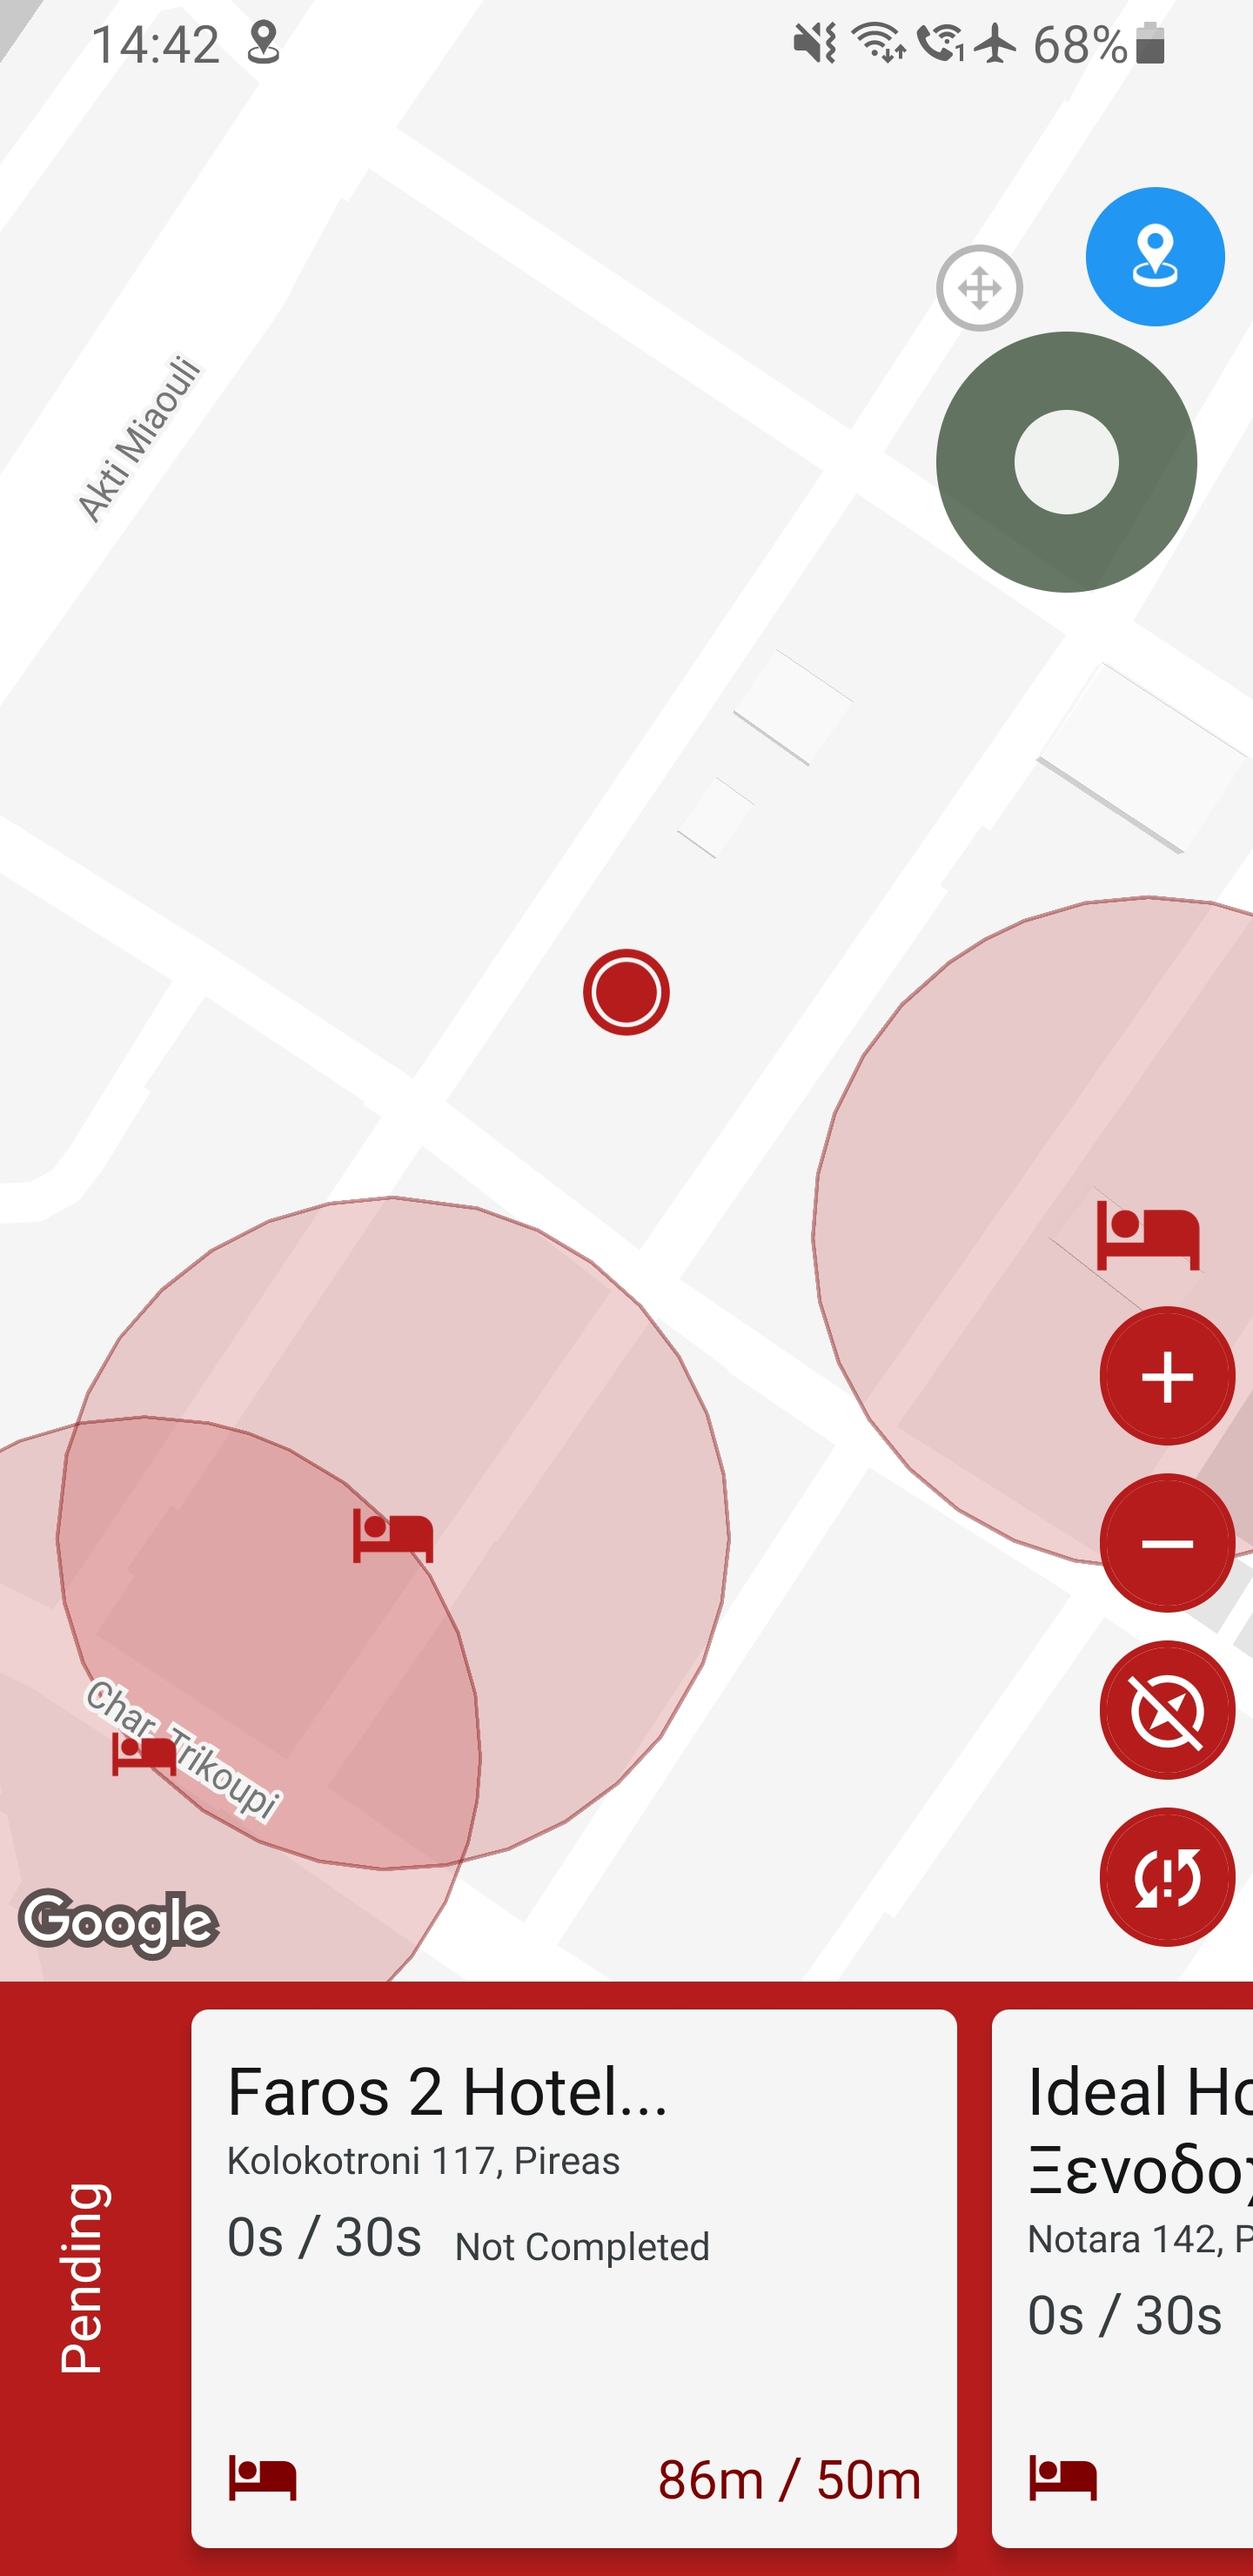
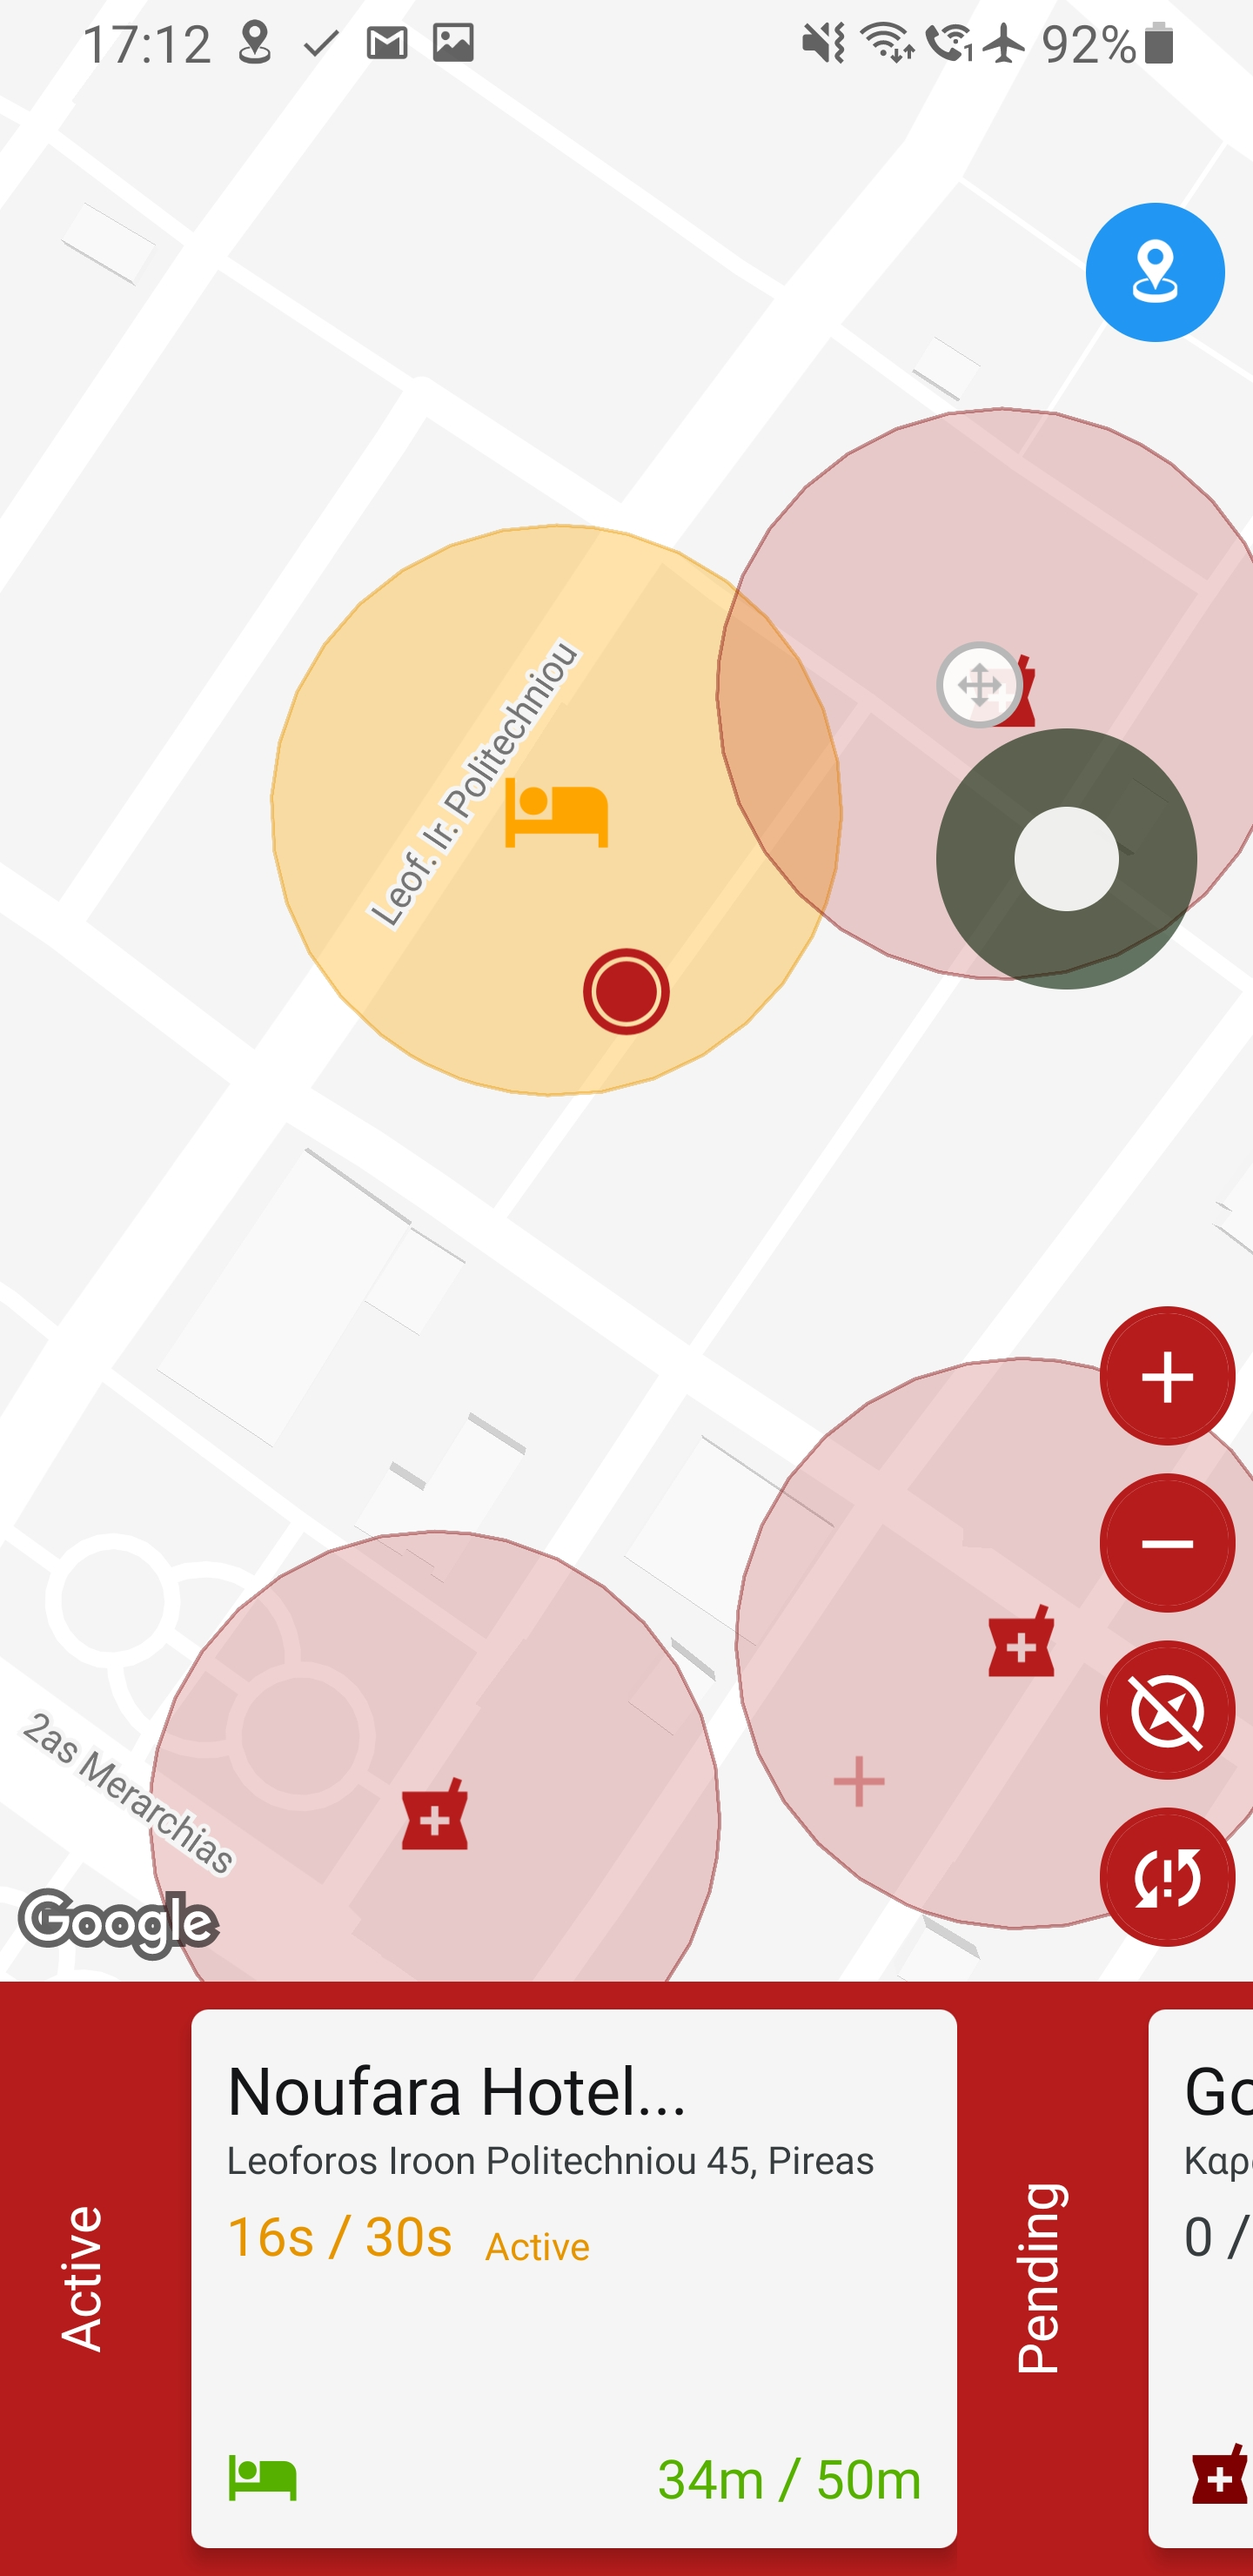
Finish readme

diff --git a/README.md b/README.md
@@ -68,4 +68,51 @@ and the location features are crippled otherwise (running as a background and no
 Sadly, that also means that the service has to be started while the app is running, so the user has to initiate it.
 But for the use case of this App it is acceptable.
 
-<img src="art/img/0_loading.jpg" alt="Logo" width="260"/> <img src="art/img/1_intro.jpg" alt="Logo" width="260"/> <img src="art/img/2_permissions.jpg" alt="Logo" width="260"/>
+<img src="art/img/0_loading.jpg" alt="Loading Screen" width="260"/> <img src="art/img/1_intro.jpg" alt="Intro Screen" width="260"/> <img src="art/img/2_permissions.jpg" alt="Permissions Screen" width="260"/>
+
+### Main Interface
+The main interface of the app opens up a beautiful full screen Google Maps instance,
+spanning all the way to the top,
+which is skinned to match the theme of the app.
+Below, there is a horizontal scrolling list listing the objectives of the user by distance.
+When the user enters within the specified distance a timer starts.
+
+On the right, there are four buttons that give access to three zoom levels (closest point, closest three points
+and all points), activate the compass to rotate the map depending on the position of the phone, and to activate
+the background service, which is opt in.
+
+(Ignore the joystick and blue circle, it is the GPS Joystick app used for testing = I didn't have to run around)
+
+<img src="art/img/3_main_screen.jpg" alt="Permissions Screen" width="260"/> <img src="art/img/4_closeup_2.jpg" alt="Completed Screen" width="260"/> <img src="art/img/4_closeup.jpg" alt="Close Up Screen" width="260"/>
+
+### Pharmacies (QR Waypoint) Screen
+When the user is within distance of a pharmacy he is presented with an "Open" 
+option.
+When he enters the interface he sees a map of the building, here some schematics from google,
+displaying the items he has to scan (random selection from ./qr directory).
+When he finds an item he can click the bottom of the screen to swap the map with a camera
+instance and scan it.
+The item will become green in the list below and in the map.
+After he finishes he will go back to the main screen, which he can also go to by pressing back
+as well.
+(the form of the back button changes based on the android device, here it is a right swipe).
+
+<img src="art/img/5_pharmacy_open.jpg" alt="Main Screen near pharmacy" width="260"/> <img src="art/img/7_qr_map.jpg" alt="QR Screen with Map" width="260"/> <img src="art/img/6_qr_scan.jpg" alt="QR Screen with Camera" width="260"/>
+
+### Background Service Notifications
+If the user clicks the background service button, he will turn on the background service.
+Then, when he leaves the app it will start and display a custom notification which will track
+his progress and inform him of the direction and distance of the closest point of interest.
+If he believes the service isn't updating fast enough he can force an update by clicking the refresh button and if he wants to close it
+he can click exit.
+
+<img src="art/img/8_noti_1.jpg" alt="Notification" width="260"/> <img src="art/img/8_noti_2.jpg" alt="Notification" width="260"/> <img src="art/img/8_noti_3.jpg" alt="Notification" width="260"/>
+
+When he reenters the app, the progress he did while the app was in the background is displayed.
+
+<img src="art/img/9_completed.jpg" alt="Progress" width="260"/>
+
+# How to run
+I don't remember, but filling the `.env` file with your keys, running
+`npm ci` to install dependencies and then `npx react-native run-android` to
+compile and push to your phone (which has turned on USB debugging and is connected to USB)/emulator should work.
